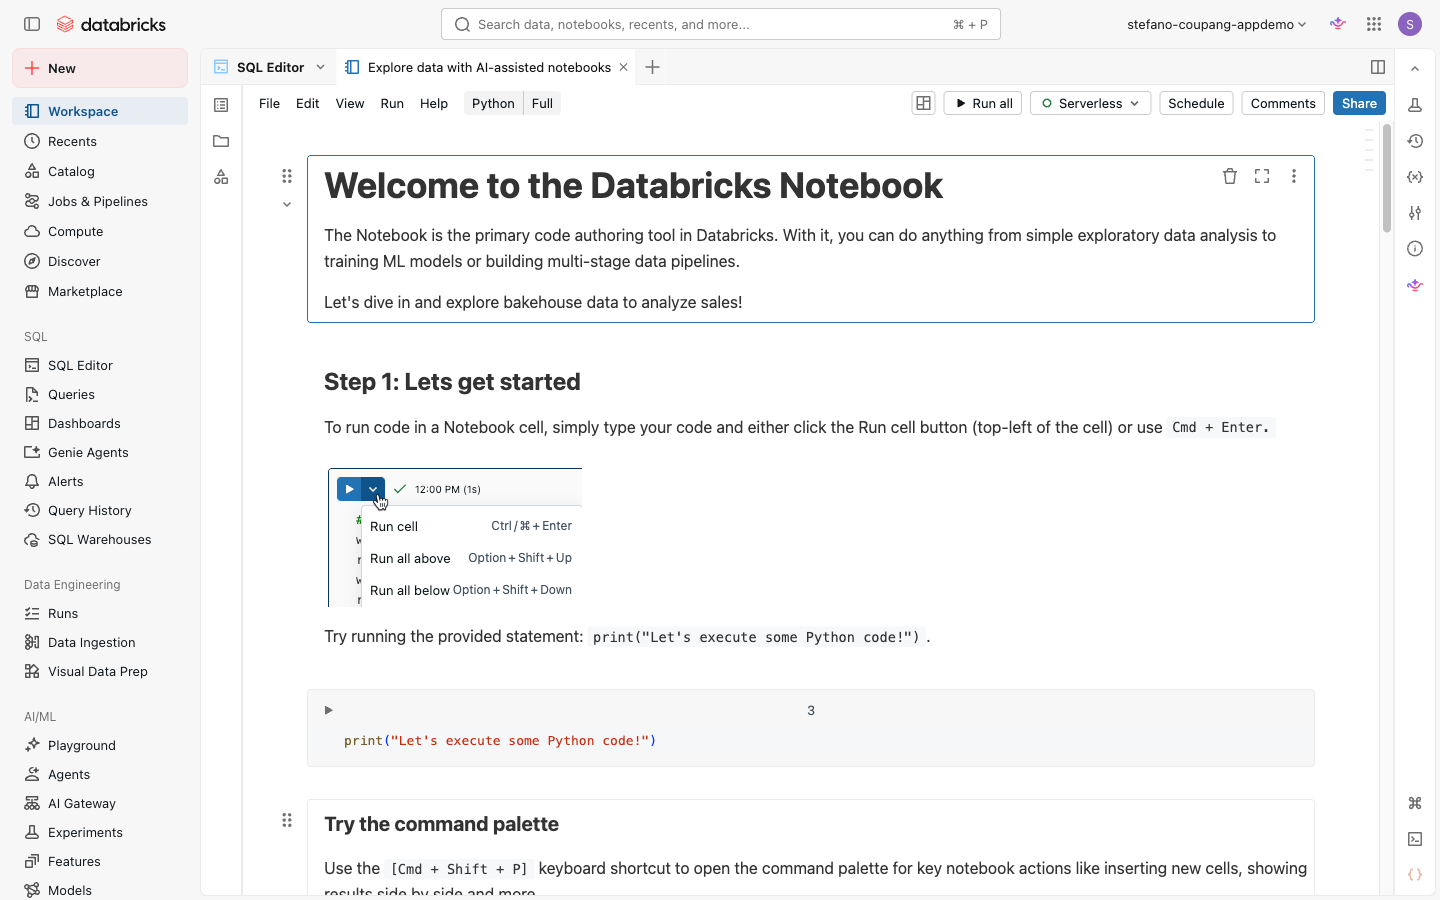
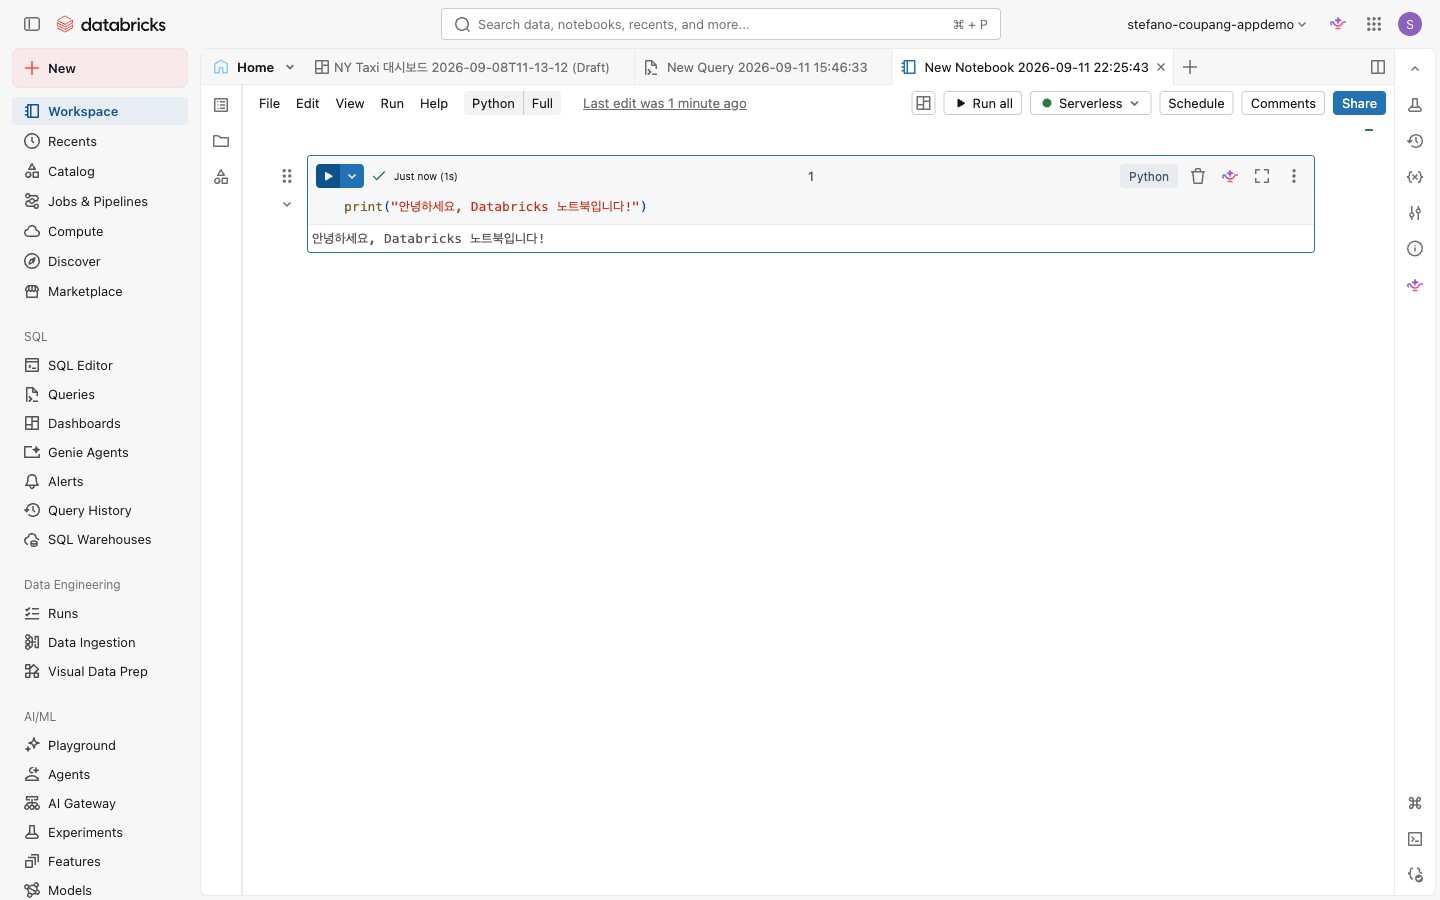
초보자 범위 안내 추가 + 스크린샷 8장 확충(핵심 상호작용 단계)
- 범위 안내: 완전 초심자용 · LLM 등 생성형 AI·Genie(자연어 질의) 기능 미포함 명시 (README·docs/01)
- 신규 스크린샷 8장 연결(실제 촬영본 25→33장):
  · 05 SQL Warehouse 생성 폼
  · 12 Apps 템플릿 선택 화면
  · 10 Job 생성 화면 / 태스크 설정 패널
  · 09 SQL 웨어하우스 선택 드롭다운 / 쿼리 작성
  · 07 노트북 New 메뉴 / 컴퓨트 선택 드롭다운
- 07 노트북 셀 실행 결과를 실제 한국어 출력 화면으로 교체(06-run-cell)

diff --git a/docs/07-notebooks.md b/docs/07-notebooks.md
@@ -74,8 +74,8 @@
 
 1. 왼쪽 사이드바에서 **+ New** 버튼을 클릭합니다.
 
-   <!-- 스크린샷 예정: ../assets/screenshots/07-notebooks/01-new-button.png (+ New 버튼 위치) -->
-   *📸 캡처 안내: 왼쪽 사이드바 상단의 "+ New" 버튼과 드롭다운 메뉴가 보이도록 캡처합니다.*
+   ![+ New 메뉴](../assets/screenshots/07-notebooks/01-new-button.png)
+   *왼쪽 사이드바 "+ New" 버튼을 눌러 펼친 메뉴 — Notebook·Query·Dashboard·Job·ETL pipeline 등 새로 만들 리소스 목록. 맨 위 "Notebook"을 선택합니다.*
 
 2. 드롭다운 메뉴에서 **Notebook**을 선택합니다.
 
@@ -110,8 +110,8 @@
 
    > 💡 서버리스 컴퓨트가 활성화된 워크스페이스에서는 **Serverless**를 선택하는 것이 가장 빠릅니다. 클러스터는 시작 시간이 1~5분 소요될 수 있습니다.
 
-   <!-- 스크린샷 예정: ../assets/screenshots/07-notebooks/05-select-compute.png (컴퓨트 선택 드롭다운) -->
-   *📸 캡처 안내: 컴퓨트 선택 드롭다운에 Serverless 및 기존 클러스터 목록이 보이도록 캡처합니다.*
+   ![컴퓨트 선택 드롭다운](../assets/screenshots/07-notebooks/05-select-compute.png)
+   *노트북 상단의 컴퓨트 버튼을 눌러 연 드롭다운 — "Serverless"(Environment version 5)가 선택되어 있고, "More…"로 다른 컴퓨트를 고를 수 있습니다.*
 
 3. 선택 후 노트북 상단에 연결된 컴퓨트 이름이 표시되면 준비 완료입니다.
 
@@ -129,7 +129,7 @@
 3. 셀 왼쪽의 ▶ 버튼을 클릭하거나 **Shift + Enter** 를 눌러 실행합니다.
 
    ![셀 실행 결과](../assets/screenshots/07-notebooks/06-run-cell.png)
-   *노트북 셀을 실행하는 방법 — 셀 왼쪽 상단 실행 버튼의 드롭다운(Run cell · Run all above · Run all below). 실행하면 셀 아래에 출력이 표시됩니다.*
+   *Python 셀에 print 코드를 입력하고 실행한 결과 — 셀 아래에 "안녕하세요, Databricks 노트북입니다!" 출력이 표시됩니다(Serverless 컴퓨트, 1초 소요).*
 
 4. 셀 아래에 출력 결과가 표시됩니다.
 

diff --git a/docs/09-sql.md b/docs/09-sql.md
@@ -95,8 +95,8 @@ SQL 편집기에서 쿼리를 실행하려면 **SQL Warehouse**에 연결해야 
 
 1. 편집기 상단(또는 우측 상단)의 컴퓨트 선택 드롭다운을 클릭합니다. (화면에서 실제 명칭 확인)
 
-   <!-- 스크린샷 예정: ../assets/screenshots/09-sql/03-warehouse-dropdown.png (SQL Warehouse 선택 드롭다운) -->
-   *📸 캡처 안내: 쿼리 편집 영역 위쪽 또는 오른쪽에 있는 SQL Warehouse 선택 드롭다운이 열린 상태를 캡처합니다. 사용 가능한 웨어하우스 목록이 보여야 합니다.*
+   ![SQL Warehouse 선택 드롭다운](../assets/screenshots/09-sql/03-warehouse-dropdown.png)
+   *SQL 편집기에서 웨어하우스 선택 드롭다운을 연 화면 — "Serverless Starter Warehouse"(Serverless·Small)가 활성 리소스로 표시됩니다.*
 
 2. 사용 가능한 SQL Warehouse 목록에서 하나를 선택합니다.
 
@@ -128,8 +128,8 @@ SQL 편집기에서 쿼리를 실행하려면 **SQL Warehouse**에 연결해야 
    LIMIT 20
    ```
 
-   <!-- 스크린샷 예정: ../assets/screenshots/09-sql/04-write-query.png (쿼리 입력 화면) -->
-   *📸 캡처 안내: SQL 편집 영역에 위 쿼리가 입력된 상태를 캡처합니다. 자동완성 제안이 보이면 더 좋습니다.*
+   ![쿼리 입력 화면](../assets/screenshots/09-sql/04-write-query.png)
+   *SQL 편집기에 SELECT 쿼리를 입력한 화면 — samples.nyctaxi.trips에서 컬럼 4개를 LIMIT 20으로 조회하며, 상단에 "Run all" 실행 버튼이 있습니다.*
 
 2. **Run** 버튼을 클릭하거나 **Ctrl + Enter** (Mac: **Cmd + Enter**)를 눌러 쿼리를 실행합니다.
 

diff --git a/docs/10-jobs.md b/docs/10-jobs.md
@@ -122,8 +122,8 @@ print("✅ Job 태스크 실행 완료!")
    onboarding-nyctaxi-job
    ```
 
-   <!-- 스크린샷 예정: ../assets/screenshots/10-jobs/04-job-name.png (Job 이름 입력) -->
-   *📸 캡처 안내: Job 이름 입력 필드에 "onboarding-nyctaxi-job"이 입력된 상태. 상단 Job 이름 필드 위치를 강조.*
+   ![새 잡 화면](../assets/screenshots/10-jobs/04-job-name.png)
+   *새 잡 화면 — 상단의 잡 이름과 우측 Job details(Job ID·Creator·Run as·트리거·파라미터), 가운데 "Add your first task"의 Notebook 태스크 추가.*
 
 > 💡 **팁**: Job 이름에는 영문, 숫자, 하이픈을 사용하세요. 한글도 지원되지만 외부 시스템 연동 시 문제가 생길 수 있습니다.
 
@@ -145,8 +145,8 @@ print("✅ Job 태스크 실행 완료!")
 
 4. **경로(Path)** 필드 오른쪽의 **찾아보기(Browse)** 아이콘을 클릭합니다.
 
-   <!-- 스크린샷 예정: ../assets/screenshots/10-jobs/05-task-config.png (태스크 설정 패널) -->
-   *📸 캡처 안내: 태스크 설정 패널 전체. Task name, Type(Notebook), Source(Workspace), Path 필드가 모두 보이도록.*
+   ![태스크 설정 패널](../assets/screenshots/10-jobs/05-task-config.png)
+   *태스크 설정 패널 — Task name, Type(Notebook), Source(Workspace), Path(Select Notebook), Compute 필드와 Create task/Cancel 버튼.*
 
 5. 파일 탐색 창에서 07 실습에서 저장한 노트북(또는 방금 만든 `onboarding-job-notebook`)을 찾아 선택하고 **확인(Confirm)** 을 클릭합니다.
 

diff --git a/README.md b/README.md
@@ -20,6 +20,9 @@
   2. **셀프 스터디** — 강의 후 이 GitHub 저장소를 열어 실습을 **하나씩 따라 하기**로 복습합니다.
 - **환경**: 대부분 **UI(화면) 따라하기**로 구성되어 CLI 설치가 없어도 실습할 수 있습니다.
 
+> ℹ **이 교육의 범위**: 본 과정은 **완전 초심자**를 위한 것으로, 플랫폼의 **기본 기능**(워크스페이스·계정 콘솔·관리자/그룹·컴퓨트·데이터(테이블·볼륨·거버넌스)·노트북·SQL·잡·대시보드·앱)에 집중합니다.
+> **LLM 등 생성형 AI 기능과 Genie(자연어 데이터 질의) 관련 기능은 이 과정에서 다루지 않습니다.** (13번 문서는 Genie가 무엇인지 **감만 잡는 시청용 데모**로, 직접 실습하지는 않습니다.) AI/ML·Genie 심화는 별도 과정에서 다룹니다.
+
 ## 🖥 발표자료 (동적 HTML 슬라이드)
 강사용 발표 슬라이드는 브라우저에서 바로 열립니다.
 

diff --git a/docs/05-compute.md b/docs/05-compute.md
@@ -223,8 +223,8 @@ Python / Spark 코드를 노트북에서 대화형으로 실행하고 싶다면
 
    > **참고**: `Type` 항목에서 `Serverless`가 기본으로 선택되어 있으면 그대로 둡니다. 서버리스가 비활성화된 경우 `Pro`를 선택하세요.
 
-<!-- 스크린샷 예정: ../assets/screenshots/05-compute/13-warehouse-create-form.png (SQL Warehouse 생성 폼) -->
-*📸 캡처 안내: SQL Warehouse 생성 폼 전체가 보이도록 캡처합니다. Name, Cluster size, Auto stop, Type(Serverless) 값이 모두 보여야 합니다.*
+![SQL Warehouse 생성 폼](../assets/screenshots/05-compute/13-warehouse-create-form.png)
+*"New Serverless SQL warehouse" 생성 폼 — Name·Cluster size(2X-Small)·Auto stop(10분)·Scaling(Min/Max)·Advanced options와 Create/Cancel 버튼.*
 
 4. **만들기(Create)** 버튼을 클릭합니다.
 

diff --git a/docs/12-apps.md b/docs/12-apps.md
@@ -92,8 +92,8 @@ requirements.txt # Python 패키지 의존성
 
    > 💡 어떤 템플릿을 선택해도 생성·배포 흐름은 동일합니다. 원하는 프레임워크로 선택하세요.
 
-   <!-- 스크린샷 예정: ../assets/screenshots/12-apps/03-template-select.png (템플릿 선택 화면) -->
-   *📸 캡처 안내: 앱 생성 창에서 템플릿 목록이 표시된 전체 화면을 캡처합니다. 선택한 템플릿이 강조(파란 테두리 등)된 상태로 캡처하면 좋습니다.*
+   ![앱 템플릿 선택 화면](../assets/screenshots/12-apps/03-template-select.png)
+   *"Create new app" 화면 — "Create a custom app"과 템플릿 탭(Hello world·Agents·Dashboard·Database), Dash·Flask·Gradio 등 시작 템플릿 카드.*
 
 ### 4단계: 앱 이름 입력 및 생성
 

diff --git a/docs/01-databricks-intro.md b/docs/01-databricks-intro.md
@@ -11,6 +11,8 @@
 | 사전 준비 | 없음 (실습 없이 읽기만 해도 됩니다) |
 | 필요 권한 | 없음 |
 
+> ℹ **이 교육의 범위**: 본 과정은 **완전 초심자**를 위한 **기본 기능 중심** 과정입니다. **LLM 등 생성형 AI 기능과 Genie(자연어 데이터 질의) 관련 기능은 다루지 않습니다.** (13번 문서는 Genie 소개용 **시청 데모**로, 직접 실습하지는 않습니다.)
+
 ## 학습 목표
 
 - Databricks의 **설립 배경과 주요 연혁**을 연도별로 큰 흐름으로 설명할 수 있습니다.
